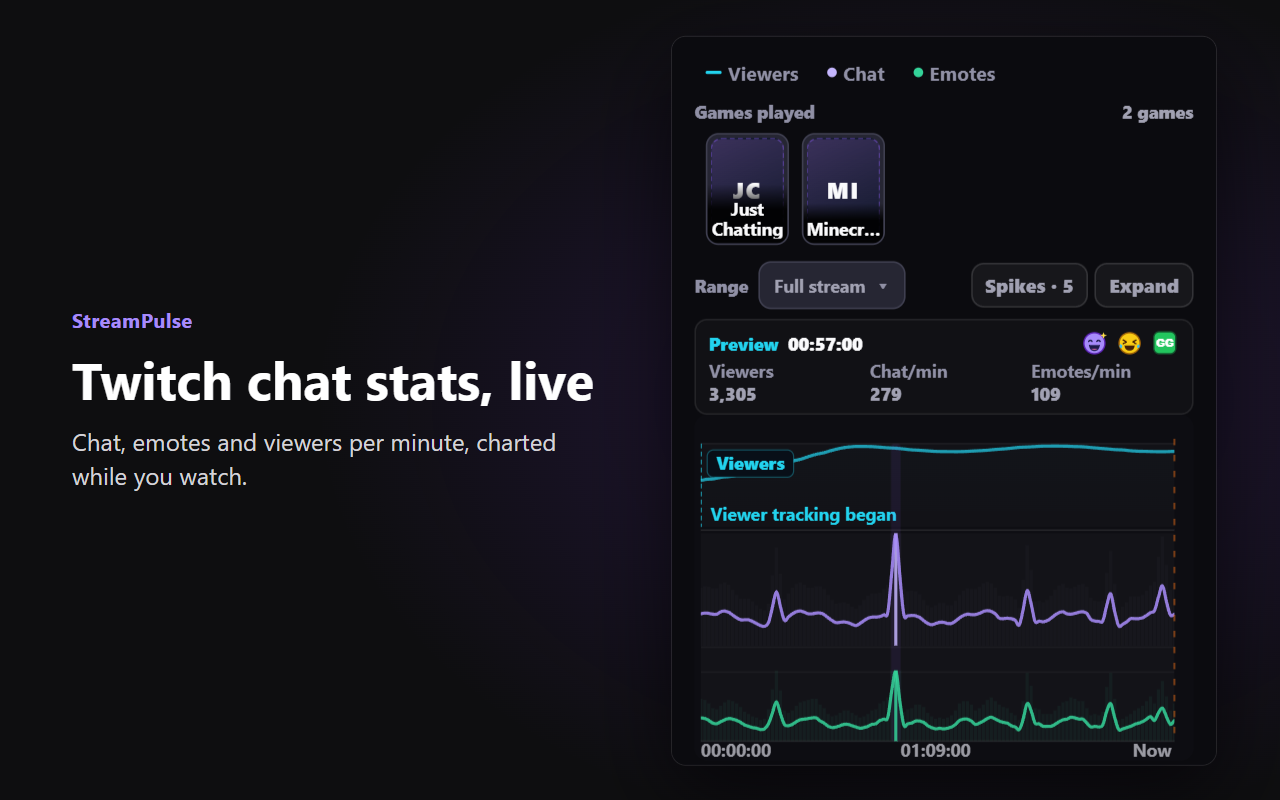
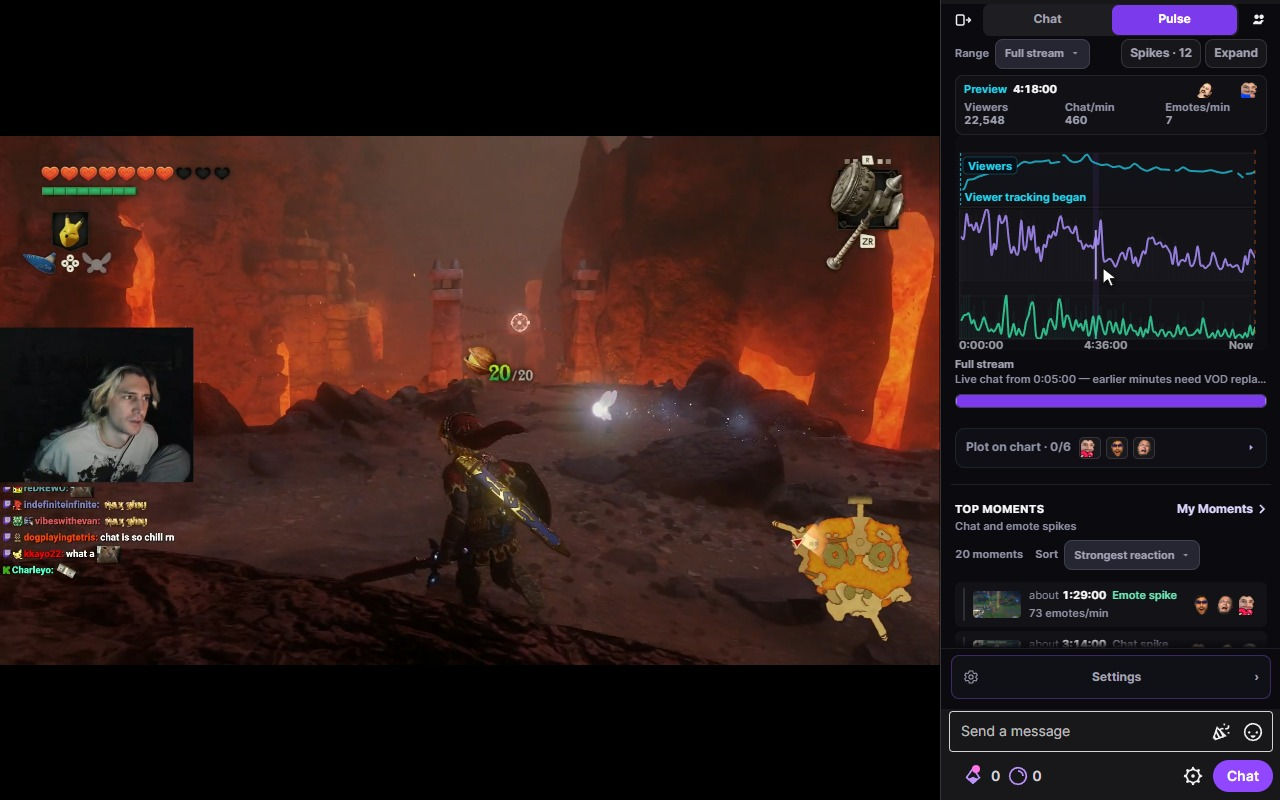
chore(store): real Twitch screenshots for the 0.2.7 listing
Replace the five headline frames with captures of the 0.2.7 build on real
twitch.tv: chart hover, a picked minute, Top Moments and an opened moment on
xQc's live stream, and Jump in VOD on one of his past broadcasts. Twitch dark
theme, theatre view, 1280x800, nothing drawn on top.

The fixture screenshot spec now writes to test-results/cws-fixture-screenshots
so a local mocked run never overwrites the store set. README, listing doc and
release doc describe the real capture and the same-day swap to the fixture set.

diff --git a/tests/e2e/specs/cws-extension-screenshots.mocked.spec.ts b/tests/e2e/specs/cws-extension-screenshots.mocked.spec.ts
@@ -8,6 +8,10 @@
  * size. Each frame is one part of the real panel, cut at its own section
  * edges, beside a one-line headline: 1280x800 PNG, no resampling.
  *
+ * Fixture fallback only: frames go to test-results/cws-fixture-screenshots.
+ * The store set in store/cws/screenshots is a capture on a real Twitch stream
+ * (see store/cws/README.md), so this spec never writes there.
+ *
  * Run (headless, after `npm run build`; the headless shell loads no extension):
  * PULSE_EXTENSION_HEADLESS=1 PULSE_EXTENSION_BROWSER_CHANNEL=chromium npx playwright test tests/e2e/specs/cws-extension-screenshots.mocked.spec.ts --project=extension-mocked
  */
@@ -31,7 +35,7 @@ const MAX_CROP_CSS = Math.floor((H - 2 * FRAME_PAD) / ZOOM)
 /** Tall enough that every section below is on screen in one piece. */
 const CAPTURE_VIEWPORT = { width: 1280, height: 1100 }
 const HERE = dirname(fileURLToPath(import.meta.url))
-const OUT = join(HERE, '../../../store/cws/screenshots')
+const OUT = join(HERE, '../../../test-results/cws-fixture-screenshots')
 const FIXTURES = join(HERE, '../fixtures')
 
 /** The browser renders at ZOOM, so a clip of the panel is already store size. */
@@ -454,12 +458,12 @@ test.describe('CWS extension-on-Twitch screenshots', () => {
     const jump = card.locator('[data-moment-inspector-action="jump"]')
     await expect(jump).toContainText('Jump')
     await jump.click()
-    // The player's answer under the list.
-    const notice = root.locator('.pulse-notice').first()
-    await expect(notice).toContainText(/Jumped to .* in the VOD player/)
+    // The player's answer, in the card under its buttons.
+    const notice = card.locator('.pulse-sel-note')
+    await expect(notice).toContainText(/Jumped to .* in the VOD/)
     await page.mouse.move(0, 0)
-    // From the card's details down: its picture is a stand-in on this fixture
-    // (no Twitch VOD frames), and the whole card does not fit with the answer.
+    // From the card's details down to its answer: the picture above is a
+    // stand-in on this fixture (no Twitch VOD frames).
     const details = card.getByText('Selected moment', { exact: true })
     await scrollPanelTo(details)
     await writeStoreFrame(page, FILES[2], { from: details, to: notice }, {

diff --git a/store/cws/README.md b/store/cws/README.md
@@ -93,31 +93,44 @@ Regenerate: `npm run icons:cws`
 common reject / blank-toolbar failure mode. `icons:cws` asserts PNG color type 6
 (RGBA) for square icons.
 
-## Screenshots (exact 1280×800 PNG, one headline each)
+## Screenshots (exact 1280×800 PNG, the real Twitch page)
 
-Store set regenerated 2026-11-13 from the current `dist/` on the mocked Twitch
-fixture (see `screenshots/manifest.json`). The browser renders at 1.6× device
-scale, so each frame shows one part of the real Pulse panel at 1.6× its
-default size, cut at section edges, beside a headline and one sub-line drawn
-by the harness (outside the extension). Every frame is synthetic: a made-up
-channel (`streampulse_demo`), our own emote art from
-`tests/e2e/fixtures/store-emotes`, and no real streamer, face, footage or
-account. No Supporter card and no version number appear in any frame.
+Store set captured 2026-11-15 on real twitch.tv with the unpacked 0.2.7
+`dist/` from master (see `screenshots/manifest.json`): Twitch dark theme,
+theatre view, a 1280×800 viewport, and nothing drawn on top. Frames 01 to 04
+are xQc's live stream; frame 05 is one of his past broadcasts. They show a real
+streamer's stream and his viewers' names as captured, the same kind of picture
+the live listing has carried since 0.2.2 (owner pick, 2026-11-15). If anyone
+objects, swap in the fixture set below the same day: store pictures can change
+without a new package. No Supporter card and no version number appear in any
+frame.
 
-| File | Headline | Content |
-|------|----------|---------|
-| `screenshots/01-pulse-chart.png` | Twitch chat stats, live | Live Stream Activity chart (viewers, chat and emotes per minute) with the minute readout on the biggest spike |
-| `screenshots/02-top-moments.png` | Jump to the moments chat reacted to | Live Top Moments: five ranked chat and emote spikes |
-| `screenshots/03-vod-jump.png` | Watch the moment again on the VOD | Past broadcast: a picked moment's details and Jump button, the moment list, and the "Jumped to … in the VOD player" notice |
-| `screenshots/04-stream-recap.png` | A recap of every stream | Past broadcast: Replay header, Stream Recap (length, messages, games, chat peak) and games played |
-| `screenshots/05-emotes.png` | See which 7TV and Twitch emotes chat is using | Expanded chart with three emotes plotted, and the Plot on chart picker with each top emote's use count |
+| File | Shows |
+|------|-------|
+| `screenshots/01-pulse-chart.png` | Live: the Pulse chart with the hover readout (viewers, chat and emotes for that minute) |
+| `screenshots/02-minute-picked.png` | Live: a minute picked on the chart, with its Twitch frame, top emotes and Jump in player |
+| `screenshots/03-top-moments.png` | Live: Top Moments, the strongest chat and emote spikes with their pictures |
+| `screenshots/04-moment-card.png` | Live: a moment opened in its card above the list, ready to jump or save |
+| `screenshots/05-vod-jump.png` | Past broadcast: Jump in VOD pressed, the card's "Jumped to … in the VOD" answer, and the player moved to that time |
 
-Generated by `tests/e2e/specs/cws-extension-screenshots.mocked.spec.ts` against
-the built `dist/`. Mocked captures are not live evidence. A live Twitch
-re-capture remains a separate, reviewed operator workflow.
+How they were taken: a headless Chrome (not the headless shell, so Twitch
+video plays) loads `dist/` with `Extensions.loadUnpacked`, sets
+`localStorage twilight.theme = '1'` for the dark theme, presses Alt+T for
+theatre view, hides the signed-out sign-up bar and the scrollbars, and draws a
+plain cursor. The capture script is not kept in this repo, since it drives a
+live third-party page.
+
+Motion: the Chrome Web Store has no GIF slot. A 19-second clip of the same take
+(pick a minute, then a Top Moment) is the listing's promo video once the owner
+uploads it to YouTube; the clip itself is kept outside this repo.
+
+**Fixture fallback.** `tests/e2e/specs/cws-extension-screenshots.mocked.spec.ts`
+still renders the panel on the mocked Twitch fixture (a made-up channel, our own
+emote art, no real streamer), now into `test-results/cws-fixture-screenshots/`
+so it never overwrites the store set. Mocked captures are not live evidence.
 
 ```bash
-# mocked fixture screenshots (regenerates store/cws/screenshots/ on purpose).
+# fixture fallback frames (written to test-results/cws-fixture-screenshots/).
 # Headless needs the full Chromium channel: the headless shell loads no extension.
 npm run build
 PULSE_EXTENSION_HEADLESS=1 PULSE_EXTENSION_BROWSER_CHANNEL=chromium npx playwright test tests/e2e/specs/cws-extension-screenshots.mocked.spec.ts --project=extension-mocked
@@ -208,6 +221,6 @@ Do not upload ZIP SHA `ae8d9b835d8459e4b886fad6948e903d6c0c9bae035119ad018cd42fb
 
 - Confirm the publisher-dashboard version and Support URL; do not substitute a
   public scrape for dashboard evidence.
-- Optionally review a live-Twitch screenshot capture before replacing the validated mocked set.
+- Upload the five screenshots above and, once it is on YouTube, the promo video link.
 - Record a real unpacked-extension Twitch smoke for the release SHA.
 - Upload only with explicit owner authorization after next-candidate gates pass.

diff --git a/docs/pulse-extension/chrome-web-store-listing.md b/docs/pulse-extension/chrome-web-store-listing.md
@@ -113,15 +113,15 @@ Show Twitch chat and emote activity for the stream or VOD you are watching, in a
 | Small promo tile | `store/cws/icons/small-promo-440x280.png` | 440×280 |
 | Marquee promo tile (from 0.2.7) | `store/cws/icons/marquee-1400x560.png` | 1400×560 |
 
-The five 0.2.6 screenshots (live chart, Top Moments card, VOD recap, quick
-settings, and settings with release notes and the Community links) come from
-the mocked Twitch fixture (synthetic channel, no real streamer or email) by
-`tests/e2e/specs/cws-extension-screenshots.mocked.spec.ts`; see
-`store/cws/README.md` for which build each frame used. Mocked captures are not
-live evidence. Frame 5 was retaken on 2026-10-12 because settings no longer
-has a Help & Feedback section and the Supporter banner is back to master's
-chips; frames 1-4 predate the 2026-10-11 polish, so
-recapture all five from the package `dist/` before the 0.2.2 upload.
+From 0.2.7 the five screenshots are captured on real twitch.tv: the 0.2.7
+`dist/` on xQc's live stream (chart hover, a picked minute, Top Moments, an
+opened moment) and on one of his past broadcasts (Jump in VOD), in Twitch's
+dark theme and theatre view, with nothing drawn on top. They show a real
+streamer and his viewers' names as captured, by the owner's pick of
+2026-11-15; `store/cws/README.md` has the frame list and the same-day swap to
+the fixture set from
+`tests/e2e/specs/cws-extension-screenshots.mocked.spec.ts`. The 0.2.6 set
+came from that mocked fixture.
 
 ---
 

diff --git a/docs/pulse-extension/release.md b/docs/pulse-extension/release.md
@@ -137,9 +137,12 @@ metadata for operator verification, but do **not** claim self-generated
 checksums or local build metadata as cryptographic provenance.
 
 CWS screenshot evidence in this repository remains the historical v0.1.2 set;
-this release policy does not claim regenerated v0.2.1 screenshots. The tracked
-CWS screenshots under `store/cws/screenshots/` are regenerated as a side effect of
-the mocked Playwright suite and must be reviewed before they are committed.
+this release policy does not claim regenerated v0.2.1 screenshots. From 0.2.7
+the tracked CWS screenshots under `store/cws/screenshots/` are a manual capture
+on real twitch.tv (see `store/cws/README.md`). The mocked Playwright suite no
+longer writes there: its fixture frames go to
+`test-results/cws-fixture-screenshots/`. Store pictures are listing assets,
+not package evidence.
 
 ---
 
